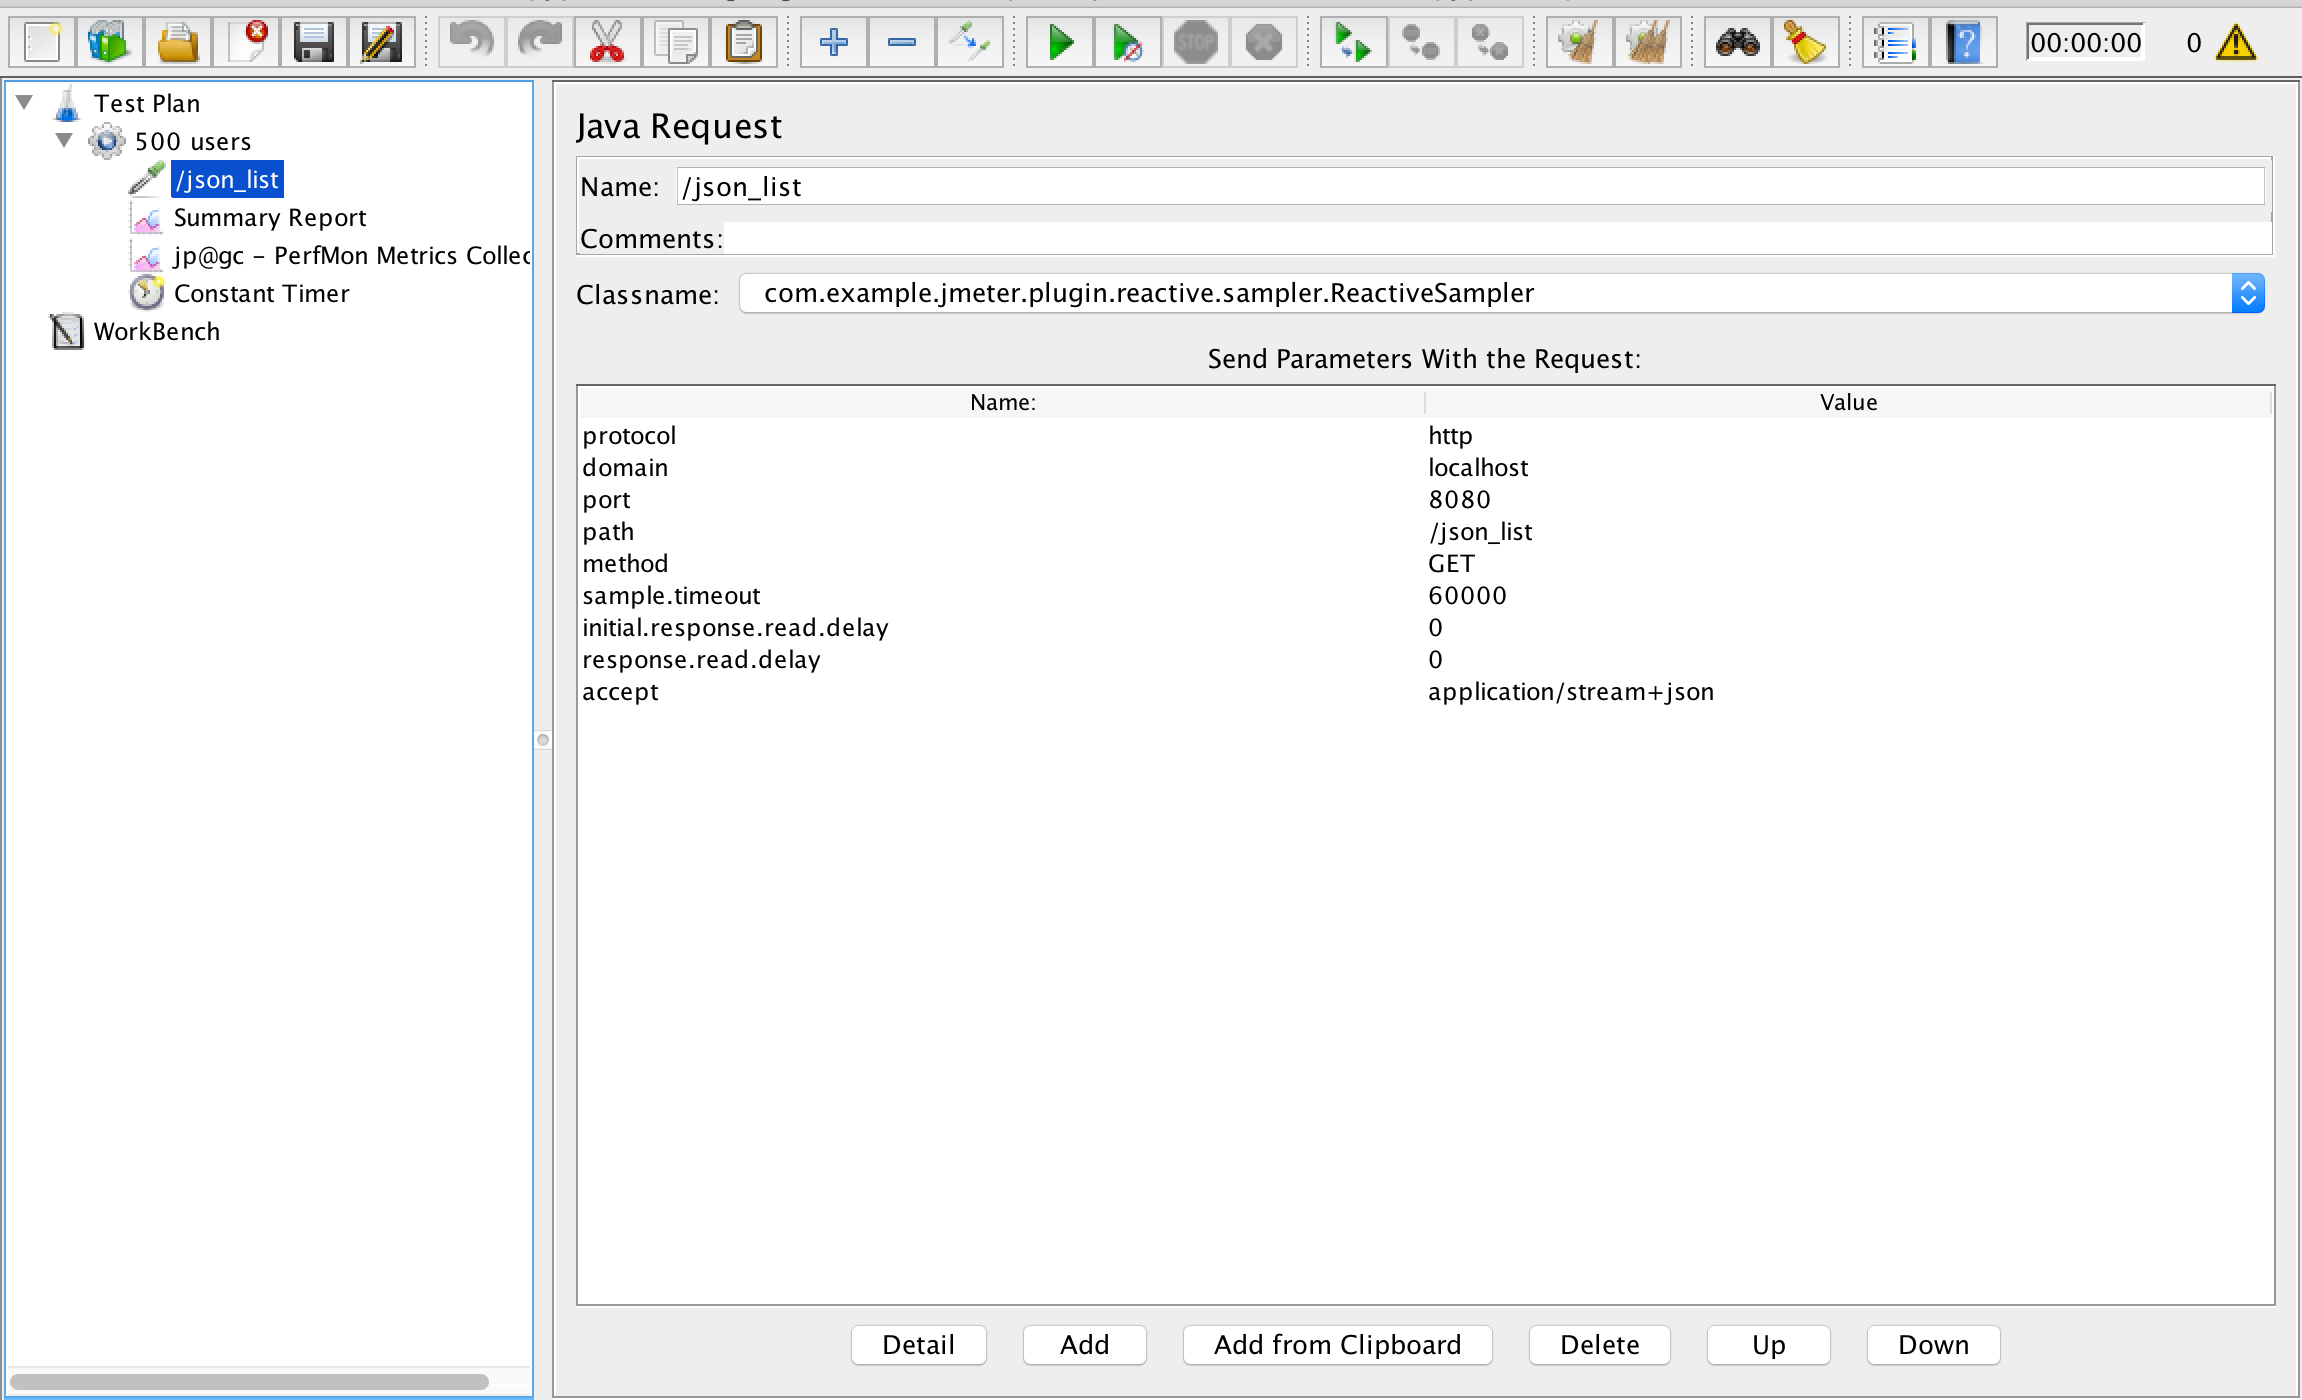
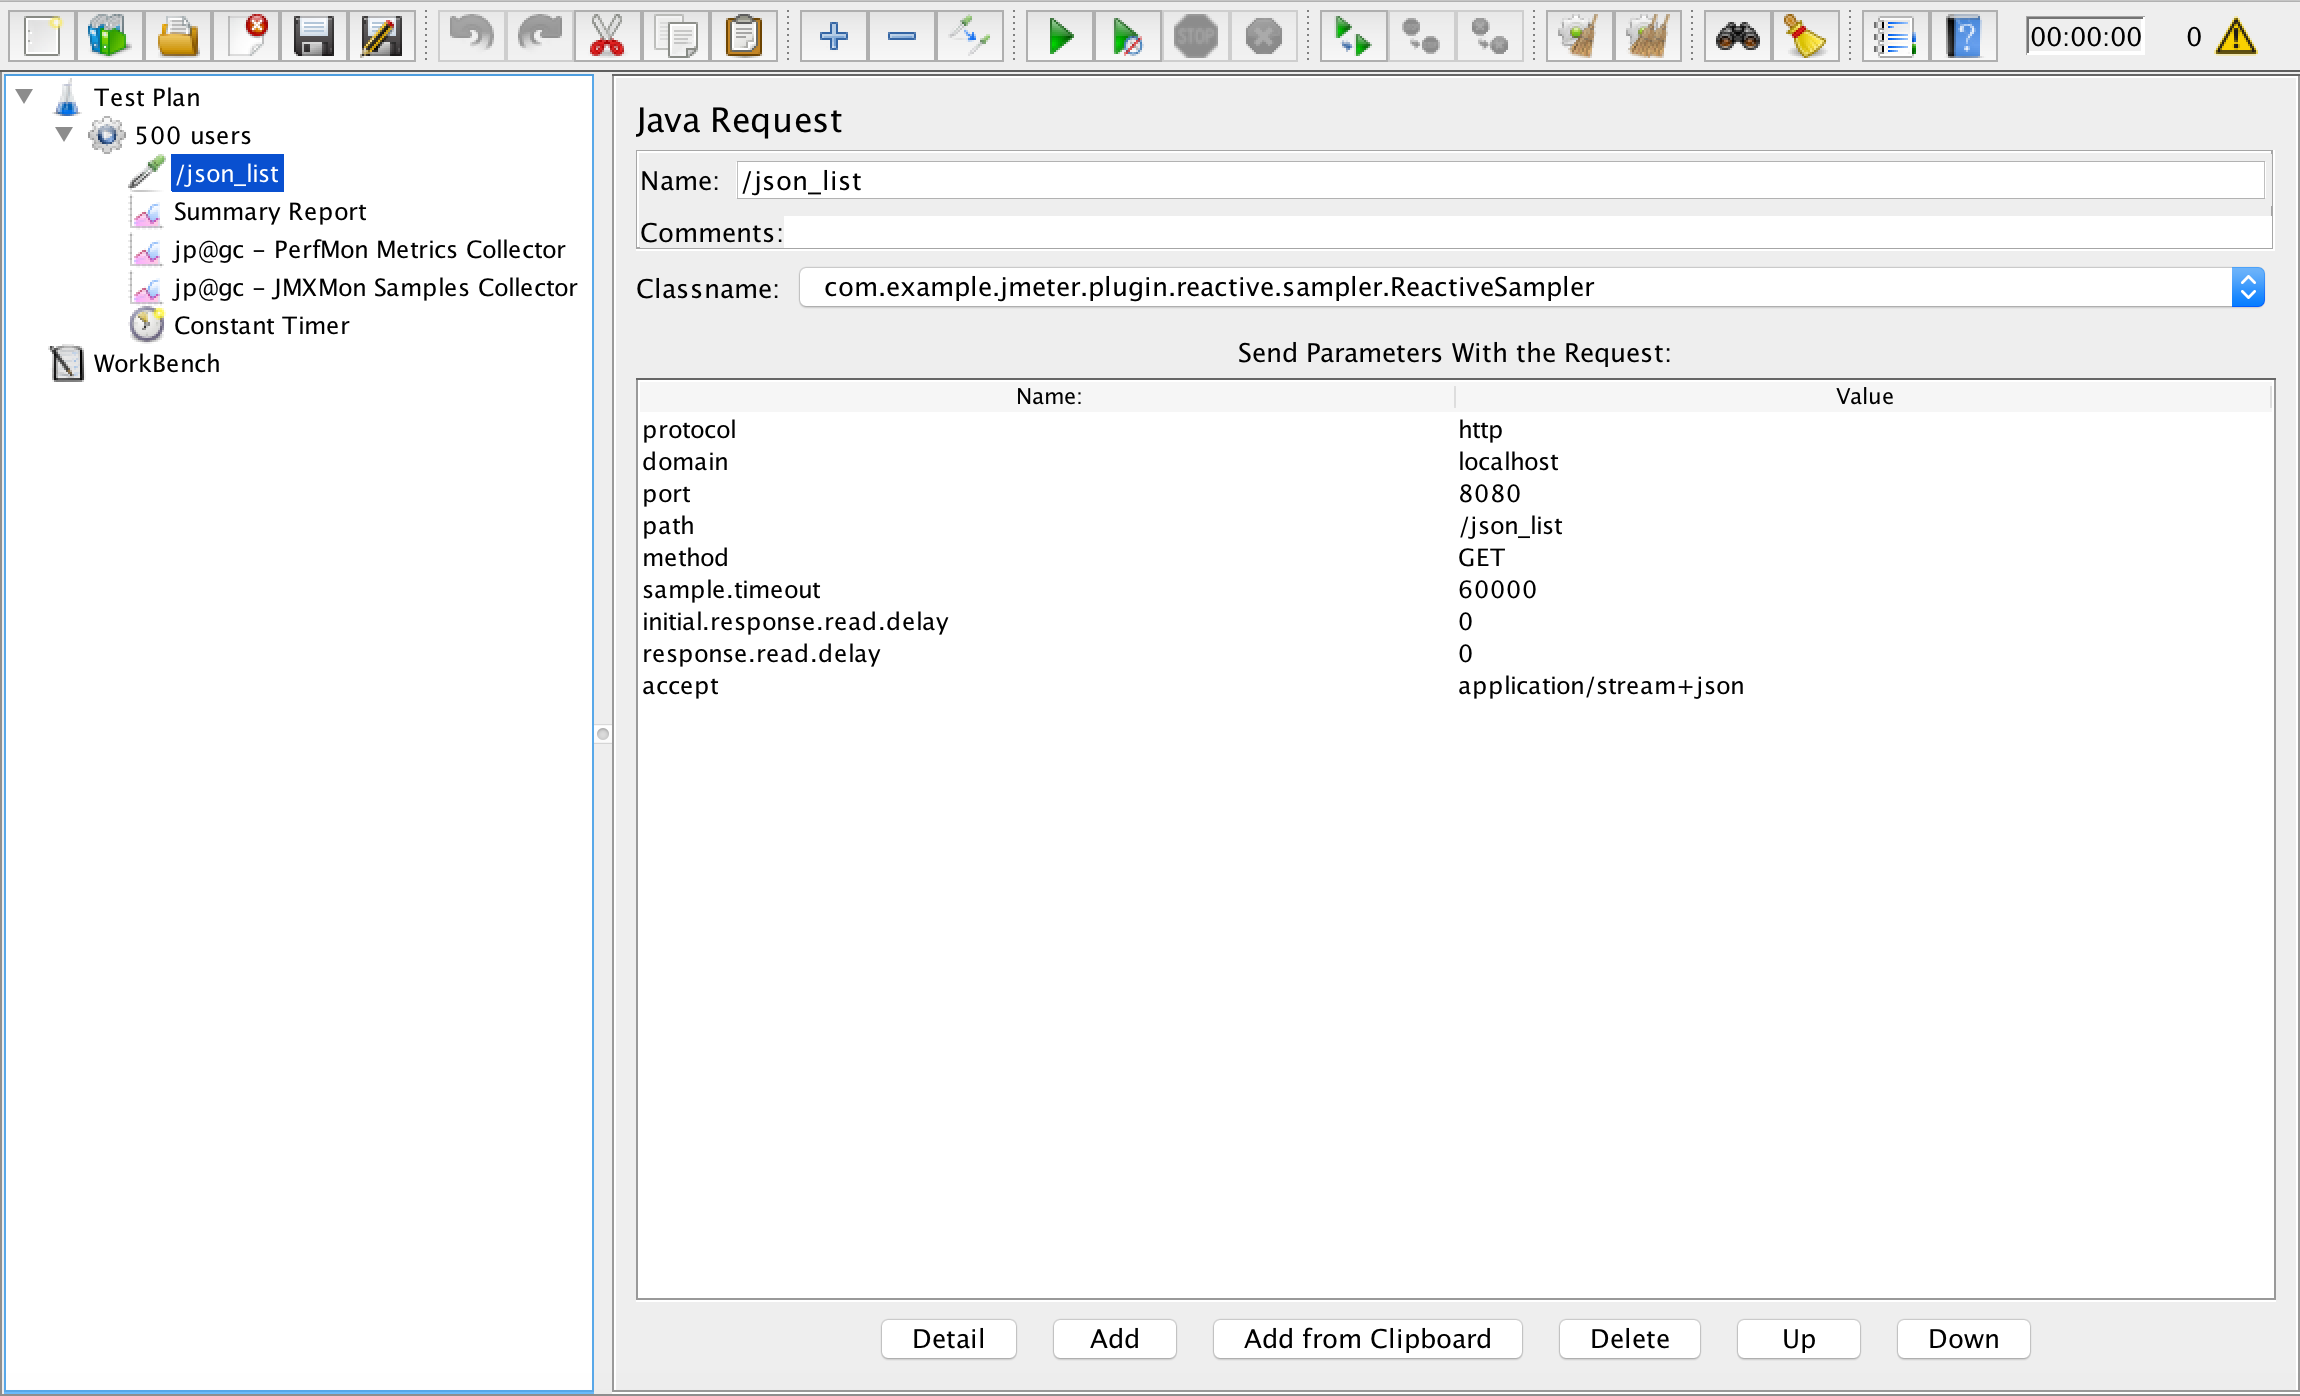
Add JMXMon Sampler Collector to the configuration

diff --git a/spring5-func/README.md b/spring5-func/README.md
@@ -8,3 +8,8 @@
 cd build/libs/
 java -jar spring5-func-0.0.1-SNAPSHOT.jar 
 ```
+If you are going to measure the server threads then you will need JMX to be opened.
+```
+cd build/libs/
+java -Dcom.sun.management.jmxremote -Dcom.sun.management.jmxremote.port=1717 -Dcom.sun.management.jmxremote.local.only=false -Dcom.sun.management.jmxremote.authenticate=false -Dcom.sun.management.jmxremote.ssl=false -jar spring5-func-0.0.1-SNAPSHOT.jar
+```

diff --git a/spring5-ann/README.md b/spring5-ann/README.md
@@ -8,3 +8,8 @@
 cd build/libs/
 java -jar spring5-ann-0.0.1-SNAPSHOT.jar 
 ```
+If you are going to measure the server threads then you will need JMX to be opened.
+```
+cd build/libs/
+java -Dcom.sun.management.jmxremote -Dcom.sun.management.jmxremote.port=1717 -Dcom.sun.management.jmxremote.local.only=false -Dcom.sun.management.jmxremote.authenticate=false -Dcom.sun.management.jmxremote.ssl=false -jar spring5-ann-0.0.1-SNAPSHOT.jar
+```

diff --git a/spring5-mvc/README.md b/spring5-mvc/README.md
@@ -8,3 +8,8 @@
 cd build/libs/
 java -jar spring5-mvc-0.0.1-SNAPSHOT.jar
 ```
+If you are going to measure the server threads then you will need JMX to be opened.
+```
+cd build/libs/
+java -Dcom.sun.management.jmxremote -Dcom.sun.management.jmxremote.port=1717 -Dcom.sun.management.jmxremote.local.only=false -Dcom.sun.management.jmxremote.authenticate=false -Dcom.sun.management.jmxremote.ssl=false -jar spring5-mvc-0.0.1-SNAPSHOT.jar
+```

diff --git a/jmeter-plugin/README.md b/jmeter-plugin/README.md
@@ -9,6 +9,7 @@
 3. Copy `./config/user.properties` to `<Apache-JMeter-Home>/bin`
 4. Copy `./config/500users.jmx` to `<Apache-JMeter-Home>/bin`
 5. Setup Servers Performance Monitoring as described here https://jmeter-plugins.org/wiki/PerfMon/
+6. Setup JMXMon Sample Collector as described here https://jmeter-plugins.org/wiki/JMXMon/
 
 ## Run
 1. Start the application
